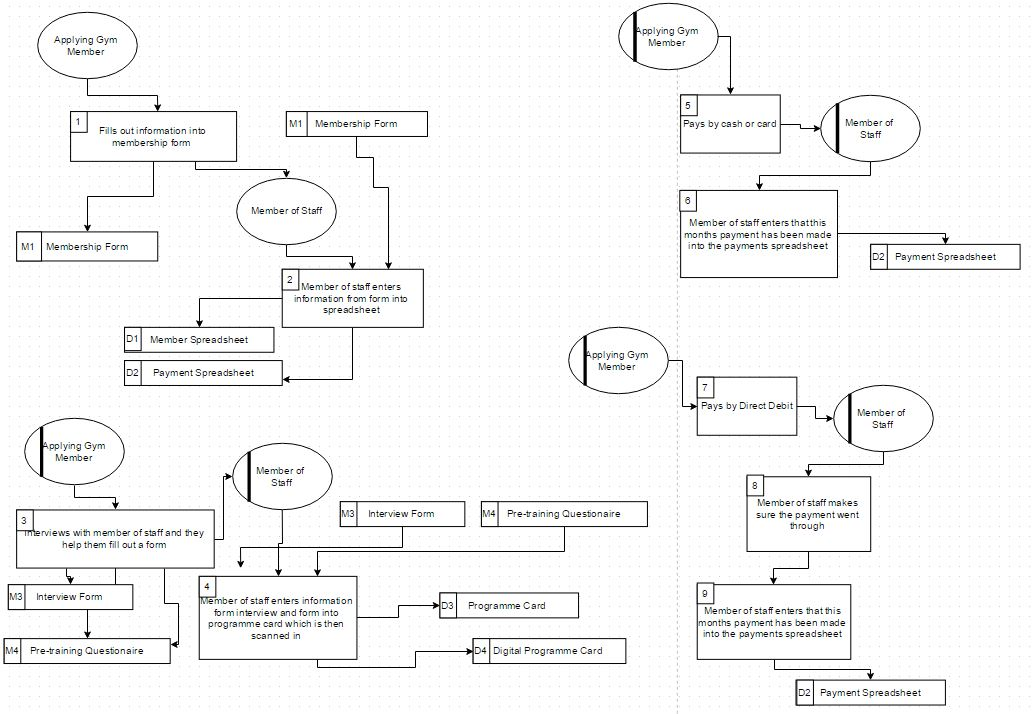
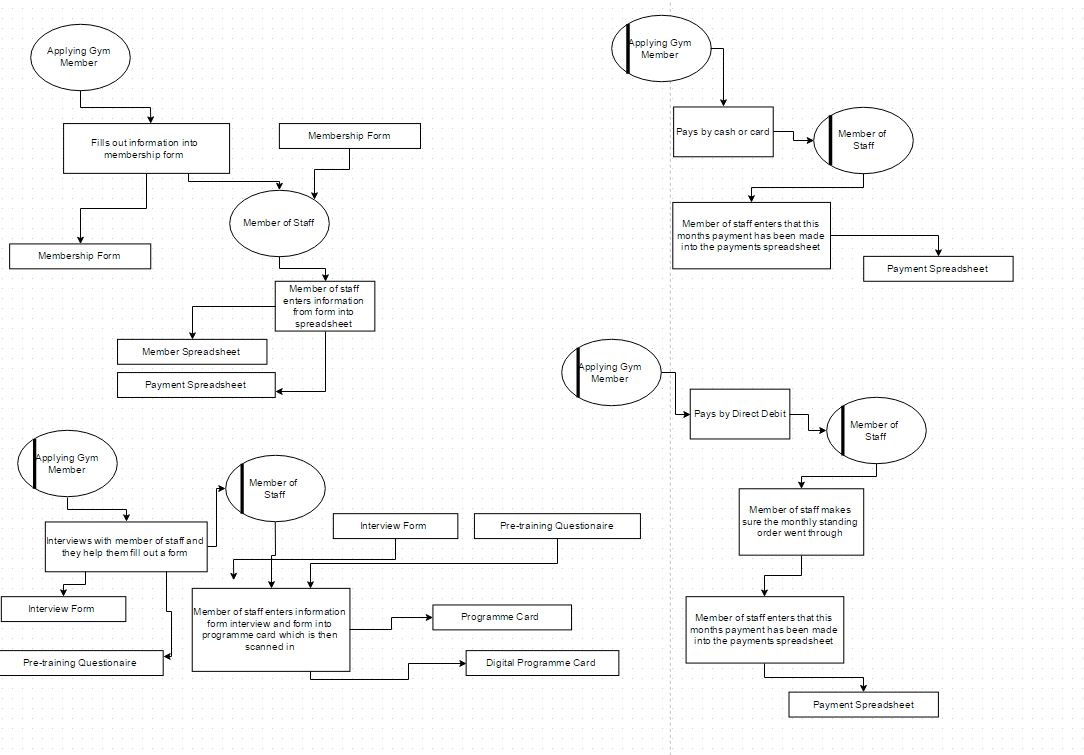
Changes from papeeria

diff --git a/Analysis/analysis.tex b/Analysis/analysis.tex
@@ -24,7 +24,7 @@ His current system involves using a series of excel spreadsheets to document his
 
 \subsection{Describe the problems}
 
-This system imposes some limitations. First of all, all the processes have to be dealt with manually meaing that all the information has to be entered into excel spreadsheets and not in an easier manner like through a digital form which would organise the data efficiently and atomatically instead of the staff having to do it themselves. This also isn't secure as any piece of information can be changed at any time by anyone who has managed to access the staff workstation and to be sure of everything debit mandates would have to be looked over, but even then some clients may have payed by cash and thus wouldn't be recoverable. Their is also the possibility of a computer error that could delete all the documents as they are not backed up anywhere. His gym also now accommodates over 1000 members meaning that he has a large number of spreadsheets for all his clients as well as having his main spreadsheet being exceptionally large meaning the program can lag, especially since the program isn't running on the greatest available hardware. Another issue is that it can be difficult to sort through and search the spreadsheets to find specific information regarding clients, for example if he needs to find they're contact information, excel doesn't have a tool to easily search for that. He also has no easy way to create invoices or just clean organised print outs of any information he needs.
+This system imposes some limitations. First of all, all the processes have to be dealt with manually meaing that all the information has to be entered into excel spreadsheets and not in an easier manner like through a digital form which would organise the data efficiently and atomatically instead of the staff having to do it themselves. These spreadsheets are used to log any payments made by a client, whether its cash/card or by direct debit, as well as all the client information that needs to be stored. A password might need to be included in the new system as the current system also isn't secure as any piece of information can be changed at any time by anyone who has managed to access the staff workstation and to be sure of everything debit mandates would have to be looked over, but even then some clients may have payed by cash and thus wouldn't be recoverable. Their is also the possibility of a computer error that could delete all the documents as they are not backed up anywhere. His gym also now accommodates over 1000 members meaning that he has a large number of spreadsheets for all his clients as well as having his main spreadsheet being exceptionally large meaning the program can lag, especially since the program isn't running on the greatest available hardware. Another issue is that it can be difficult to sort through and search the spreadsheets to find specific information regarding clients, for example if he needs to find they're contact information, excel doesn't have a tool to easily search for that. He also has no easy way to create invoices or just clean organised print outs of any information he needs.
 
 \subsection{Section appendix}
 
@@ -81,7 +81,7 @@ The table below presents all the data curently used in the system, where its com
 
 \subsubsection{Algorithms}
 
-Hierarchy Charts
+Structure Tables
 
 Gym Sign Up Process
 \begin{python}
@@ -177,19 +177,24 @@ Flow Charts
 
 \begin{figure}[H]
     \includegraphics[width=\textwidth]{GymAlgorithm.jpg}
-    \caption{Algorithm for the gym sign up process} \label{fig:Algorithm for the gym sign up process}
+    \caption{Algorithm for the gym sign up process. The form details the process of an applying member giving a staff member their details, the staff member entering them into the spreadsheets and then going through all the extra processes that are required if the applying member wants an exercise regime.} \label{fig:Algorithm for the gym sign up process. }
 \end{figure}
 
 \begin{figure}[H]
-    \includegraphics[width=\textwidth]{PaymentAlgorithm.jpg}
-    \caption{Algorithm for the payment process} \label{fig:Algorithm for the payment process}
+    \includegraphics[width=\textwidth]{CurrentPayment.JPG}
+    \caption{Algorithm for the payment process. This details the process the member and staff members go through each month when the member pays either through cash/card or a monthly standing order, and how they deal with people who refuse to pay. } \label{fig:Algorithm for the payment process}
+\end{figure}
+
+\begin{figure}[H]
+    \includegraphics[width=\textwidth]{NewRegimeAlgorithm.JPG}
+    \caption{Algorithm for the process of creating a new exercise regime. This details how the gym member interviews with a staff member to create a new regime based on exercises they deem appropriate. } \label{fig:Algorithm for the regime change}
 \end{figure}
 
 \subsubsection{Data flow diagram}
 
 \begin{figure}[H]
     \includegraphics[width=\textwidth]{DFD-Current.JPG}
-    \caption{Data Flow Diagram For The Current System} \label{fig:Data Flow Diagram For The Current System}
+    \caption{Data Flow Diagram For The Current System. These diagrams show where all the data in the current system comes from, where it goes and the process it goes through to get there.} \label{fig:Data Flow Diagram For The Current System}
 \end{figure}
 
 
@@ -291,24 +296,29 @@ My proposed system uses a database to keep track of all the data that my client 
 \end{figure}
 
 \begin{figure}[H]
-    \includegraphics[width=\textwidth]{dfd_2.JPG}
+    \includegraphics[width=\textwidth]{moreProposedDfds.JPG}
     \caption{Data Flow Diagram} \label{fig: Data Flow Diagram }
+\end{figure}
+
+\begin{figure}[H]
+    \includegraphics[width=\textwidth]{dfd_2.JPG}
+    \caption{Data Flow Diagram. These diagrams show where all the data in the proposed system comes from, where it goes and the process it goes through to get there.} \label{fig: Data Flow Diagram }
 \end{figure}
 
 \subsubsection{Data dictionary}
 
 \begin{figure}[H]
-    \includegraphics[width=\textwidth]{DataDictionaryProposed.JPG}
+    \includegraphics[width=\textwidth]{datadict1.JPG}
     \caption{Data Dictionary} \label{fig: Data Destinations and Sources }
 \end{figure}
 
 \begin{figure}[H]
-    \includegraphics[width=\textwidth]{DataDictionaryProposed2.JPG}
+    \includegraphics[width=\textwidth]{datadict2.JPG}
     \caption{Data Dictionary 2} \label{fig: Data Destinations and Sources 2 }
 \end{figure}
 
 \begin{figure}[H]
-    \includegraphics[width=\textwidth]{New_dictionary3.JPG}
+    \includegraphics[width=\textwidth]{datadict3.JPG}
     \caption{Data Dictionary 3} \label{fig: Data Destinations and Sources 2 }
 \end{figure}
 
@@ -321,9 +331,13 @@ Each member has 11 - 16 fields of data in total, with each data field taking up 
 16 * 1KB * 2000 = 32000 KB
 32000 / 1024 = 31.25 MB
 
-The rest of the system should take up a small amount of space that will probably take up about 3MB.
+There is also the exercise tables and regime tables which will take up roughly 10,000 KB of data assuming each member will have an average of 10 exercises each in their regime, each exercise taking up 1KB of data. The exercise table would then likely come up to 300 KB of data as currently the owner estimates that he currently offers 300 different variations of exercises.
 
-31.25 MB + 3MB = 34.25 MB
+10,300 / 1024 = 10.05 MB
+
+The actual program should then take up a small amount of space that will probably take up about 3MB.
+
+31.25 MB + 10.05 + 3MB = 44.30 MB
 
 \section{Objectives}
 
@@ -360,7 +374,6 @@ Client/Member Record Viewing/Data Input
         \item Each of these buttons should open up either drop down menus or entirely new windows, depending on which is more user friendly, and display further options within those commands.
         \item The interface for entering new information should be easy to use and clearly labelled for adding each attribute to the specified table.
         \item Their should be an easy/ifficient way to switch and search between all of the tables in the database.
-        \item the .db file made in SQL should be password protected so it can't just be opened in another program without being crredible enough to know the password.
         \item Avoid more novice users accidentally deleteing items by having a secondary password for higher level access.
         \item Store backups of the database online using a system like dropbox or GitHub so that in the event of data corruption there would be recent version to backup to
         \item Storing the latest version of the spreasheet locally also adds an extra layer of security as the most recent version wont be easily accessable exept by people with direct access to the workstation.
@@ -382,8 +395,8 @@ Input Forms
 
     \begin{itemize}  
 
-        \item Easy to fill out digital input forms, maybe made in HTML that can be distributed by email or through the gyms website that the program could automatically search for a recieve when being opened.
-        \item Printable versions off these forms that can be created to be filled out by hand by less technically inclined clients that can then have their information manually entered into the system by a member of staff.
+        \item Easy to fill out digital input forms for entering new data into the database tables instead of a more complicated sql query based system.
+        \item Printable versions off these forms that can be created to be filled out by hand by a client that can then have their information manually entered into the system by a member of staff.
 
     \end{itemize}
 
@@ -395,7 +408,6 @@ Input Forms
         \item Each of these buttons should open up either drop down menus or entirely new windows, depending on which is more user friendly, and display further options within those commands.
         \item The interface for entering new information should be easy to use and clearly labelled for adding each attribute to the specified table.
         \item Their should be an easy/ifficient way to switch and search between all of the tables in the database.
-        \item the .db file made in SQL should be password protected so it can't just be opened in another program without being crredible enough to know the password.
         \item Avoid more novice users accidentally deleteing items by having a secondary password for higher level access.
         \item Store backups of the database online using a system like dropbox or GitHub so that in the event of data corruption there would be recent version to backup to
         \item Storing the latest version of the spreasheet locally also adds an extra layer of security as the most recent version wont be easily accessable exept by people with direct access to the workstation.
@@ -411,7 +423,7 @@ Input Forms
 \subsection{Other Objectives}
 
 \begin{itemize}
-     \item Easy to fill out digital input forms, maybe made in HTML that can be distributed by email or through the gyms website that the program could automatically search for a recieve when being opened.
+        \item Easy to fill out digital input forms for entering new data into the database tables instead of a more complicated sql query based system.
         \item Printable versions off these forms that can be created to be filled out by hand by less technically inclined clients that can then have their information manually entered into the system by a member of staff.
         
 \end{itemize}
@@ -452,14 +464,14 @@ Exercise
 \subsection{Relationship diagrams}
 
 \begin{figure}[H]
-    \includegraphics[width=\textwidth]{RelationshipDiagram.jpg}
+    \includegraphics[width=\textwidth]{RelationshipDiagram1.jpg}
     \caption{Relationship Diagram} \label{fig: Relationship Diagram}
 \end{figure}
 
 \subsection{Class definitions}
 
 \begin{figure}[H]
-    \includegraphics[width=\textwidth]{ClassDefinitions.JPG}
+    \includegraphics[width=\textwidth]{ClassDefinitions.png}
     \caption{Definitions} \label{fig: Definitions}
 \end{figure}
 
@@ -484,7 +496,7 @@ The only hardware constraint this laptop proposes is the size and resolution of 
 
 \subsection{Software}
 
-My client has no preference on what software can or cannot be used as long as its easily accessable to him as he isn't the most computer literate person. Its worth noting that although he has no particular requirements for software he isn't willing to learn a new operating system so it will have to run on windows 7. This is not a problem since the proposed system will be developed on a windows os and should be fully compatable. The client wants the system to be secure so the databases are going to be programmed in SQL and the system itself is going to have two levels of password protection including password protecting the SQL database.
+My client has no preference on what software can or cannot be used as long as its easily accessable to him as he isn't the most computer literate person. Its worth noting that although he has no particular requirements for software he isn't willing to learn a new operating system so it will have to run on windows 7. This is not a problem since the proposed system will be developed on a windows os and should be fully compatable. The client wants the system to be ifficient so the databases are going to be programmed in SQL and the system itself is going to have two levels of password protection so that the data stays secure.
 
 \subsection{Time}
 
